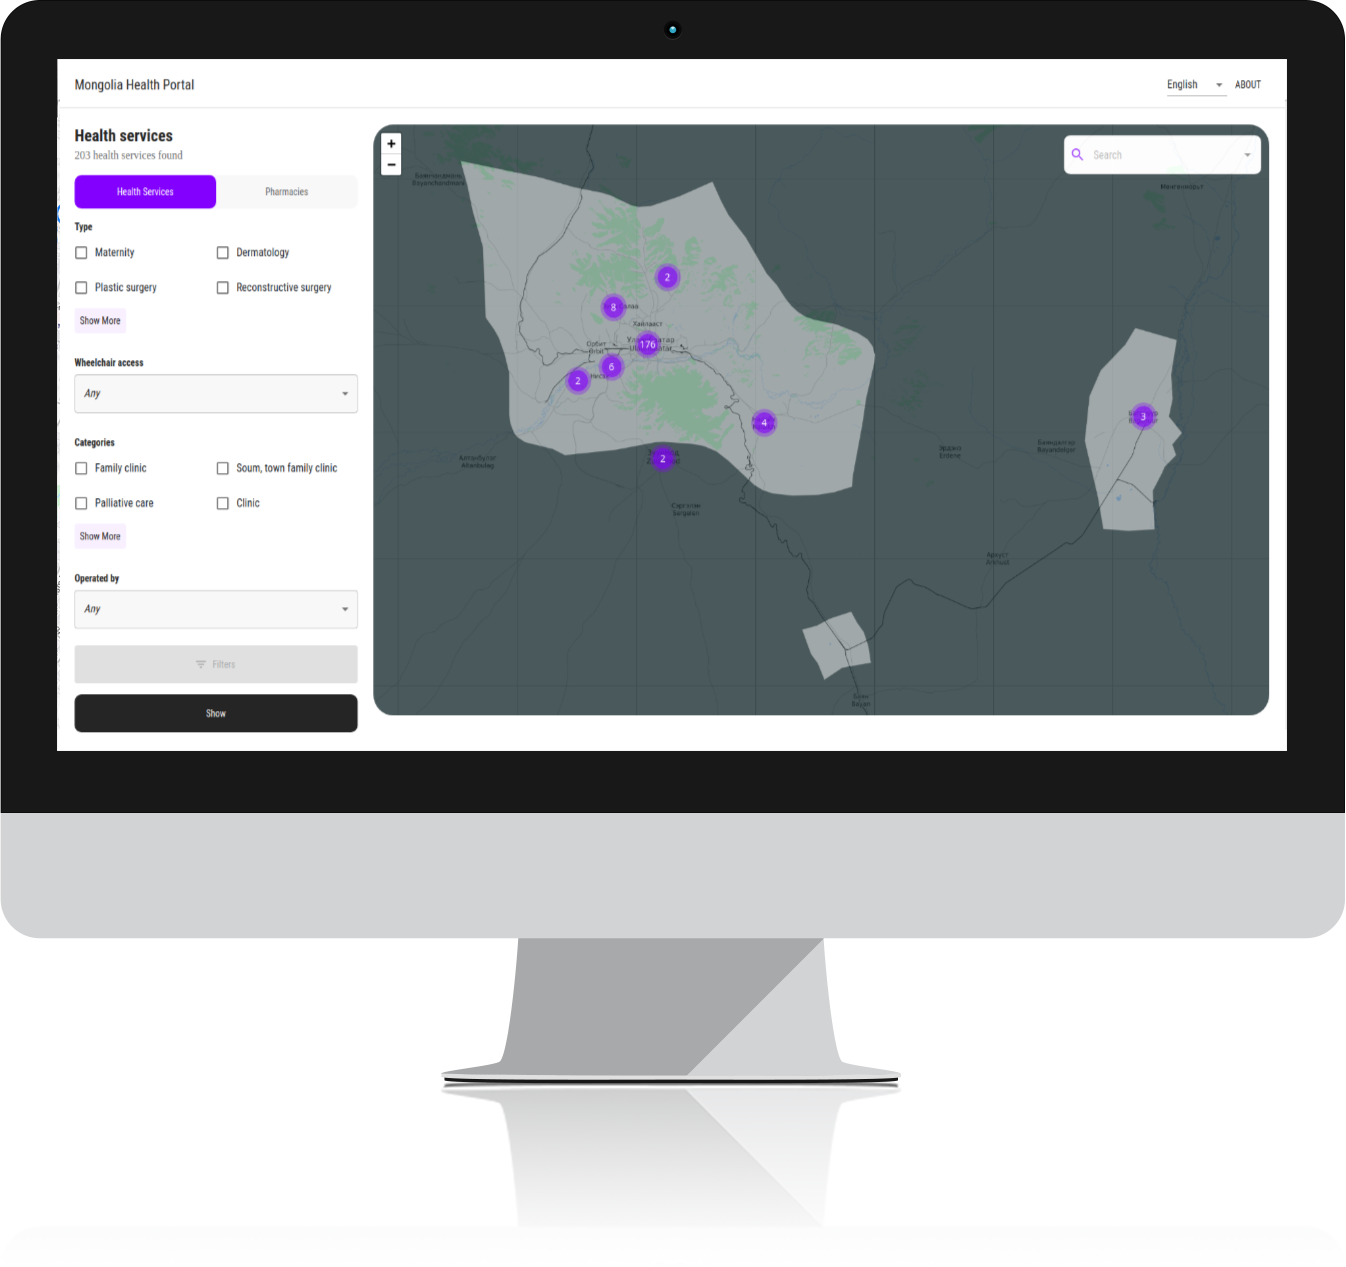
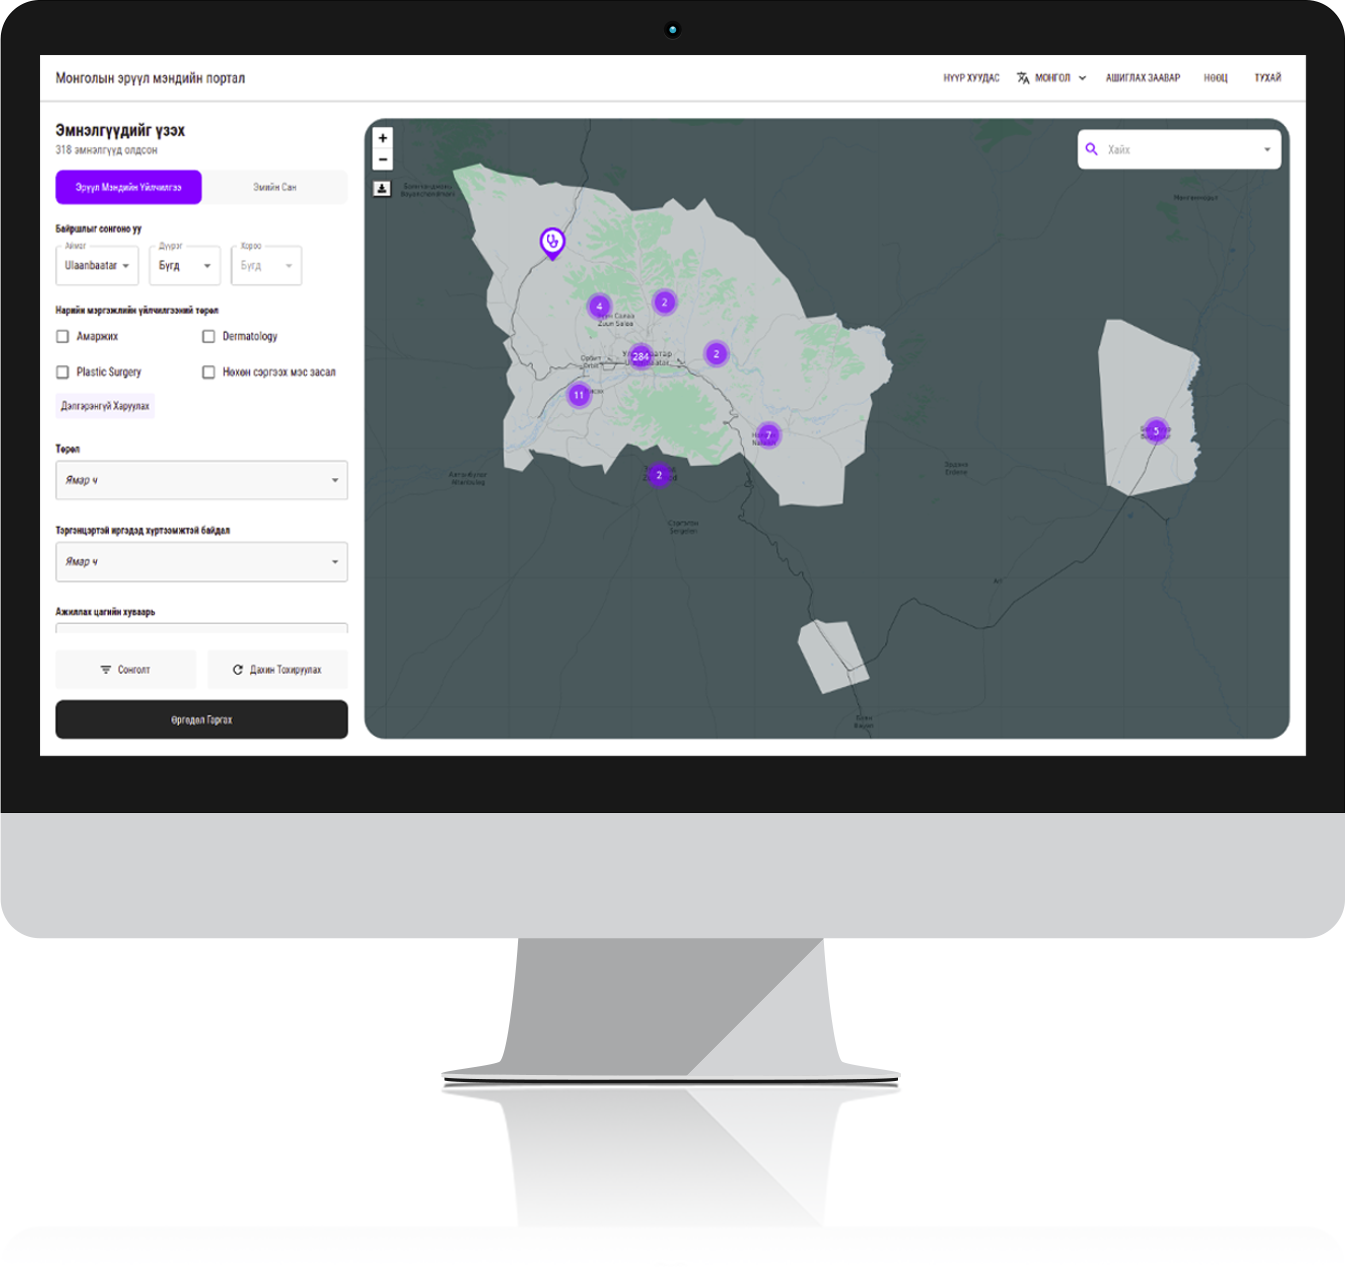
updated readme and how to mongolian locale

Changed region(s): [[0.0312, 0.0308, 0.9673, 0.6156], [0.7801, 0.2463, 0.9049, 0.4309], [0.1872, 0.1231, 0.2184, 0.1539]]

diff --git a/app/components/NavBar/index.js b/app/components/NavBar/index.js
@@ -18,44 +18,6 @@ import { FormattedMessage } from 'react-intl';
 import messages from './messages';
 import 'intro.js/introjs.css';
 
-const steps = [
-  {
-    element: '.selector1',
-    intro: <FormattedMessage {...messages.introFilter} />,
-    position: 'right',
-    tooltipClass: 'myTooltipClass',
-    highlightClass: 'myHighlightClass',
-  },
-  {
-    element: '.selector2',
-    intro: <FormattedMessage {...messages.introAmenity} />,
-  },
-  {
-    element: '.selector3',
-    intro: <FormattedMessage {...messages.introLocation} />,
-  },
-  {
-    element: '.selector4',
-    intro: <FormattedMessage {...messages.introOtherFilters} />,
-  },
-  {
-    element: '.selector5',
-    intro: <FormattedMessage {...messages.introShow} />,
-  },
-  {
-    element: '.selector6',
-    intro: <FormattedMessage {...messages.introMap} />,
-  },
-  {
-    element: '.selector7',
-    intro: <FormattedMessage {...messages.introSearch} />,
-  },
-  {
-    element: '.selector8',
-    intro: <FormattedMessage {...messages.introDownload} />,
-  },
-];
-
 const useStyles = makeStyles(theme => ({
   list: {
     width: 250,
@@ -83,6 +45,68 @@ export default function SwipeableTemporaryDrawer({ onLocaleToggle, locale }) {
   const [selectedIndex, setSelectedIndex] = React.useState('');
   const [isTourEnabled, setIsTourEnabled] = React.useState(false);
   const [anchorEl, setAnchorEl] = React.useState(null);
+
+  const steps = [
+    {
+      element: '.selector1',
+      intro:
+        locale === 'en'
+          ? 'This is the filter selection section.'
+          : 'Энэ хэсэгт сонголтоор хайлт хийнэ',
+      position: 'right',
+      tooltipClass: 'myTooltipClass',
+      highlightClass: 'myHighlightClass',
+    },
+    {
+      element: '.selector2',
+      intro:
+        locale === 'en'
+          ? 'You can select either health services or pharmacies.'
+          : 'Эрүүл мэндийн үйлчилгээ эсвэл эмийн сангаар хайж болно',
+    },
+    {
+      element: '.selector3',
+      intro:
+        locale === 'en'
+          ? 'Select the desired location.'
+          : 'Хайлт хийх газраа сонгоно',
+    },
+    {
+      element: '.selector4',
+      intro:
+        locale === 'en'
+          ? 'Select filters related to speciality, wheelchair access, categories, operator type or operating hours. Scroll down to see others filters.'
+          : 'Нарийн мэргэжил, тэргэнцэртэй иргэдэд хүртээмжтэй эсэх, үйлчилгээний төрөл, ажиллах цагаар хайх. Доош гүйлгэж бусад сонголтыг харах',
+    },
+    {
+      element: '.selector5',
+      intro:
+        locale === 'en'
+          ? "Once you've selected the filters, click here to apply the filters you've selected"
+          : 'Шүүлтүүрийг сонгосны дараа энд дарж сонгосон шүүлтүүрээ ашиглана уу',
+    },
+    {
+      element: '.selector6',
+      intro:
+        locale === 'en'
+          ? 'The map shows all the POIs that fall under the applied filters. Click on any location marker to view its detail.'
+          : 'Энэ хэсэгт хайлтын сонголтод тохирсон эрүүл мэндийн үйлчилгээнүүд харагдана. Үйлчилгээн дээр дарж дэлгэрэнгүй мэдээллийг харах.',
+    },
+    {
+      element: '.selector7',
+      intro:
+        locale === 'en'
+          ? 'Type your query here to search for keywords.'
+          : 'Энэ хэсэгт түлхүүр үгээр хайлт хийнэ',
+    },
+    {
+      element: '.selector8',
+      intro:
+        locale === 'en'
+          ? 'Download the data displayed in the map by clicking this download button.'
+          : 'Хайлтаар гарч ирсэн мэдээллийг энэ товчин дээр дарж татаж авна',
+    },
+  ];
 
   const handleLanguageClick = event => {
     setAnchorEl(event.currentTarget);
@@ -217,10 +241,10 @@ export default function SwipeableTemporaryDrawer({ onLocaleToggle, locale }) {
               initialStep={0}
               onExit={() => setIsTourEnabled(false)}
               options={{
-                nextLabel: 'Next',
-                prevLabel: 'Prev',
-                skipLabel: 'Skip',
-                doneLabel: 'Done',
+                nextLabel: locale === 'en' ? 'Next' : 'Дараачийн',
+                prevLabel: locale === 'en' ? 'Previous' : 'Өмнөх',
+                skipLabel: locale === 'en' ? 'Skip' : 'Алгасах',
+                doneLabel: locale === 'en' ? 'Done' : 'Дууссан',
                 scrollToElement: false,
                 showStepNumbers: false,
               }}

diff --git a/README.md b/README.md
@@ -38,6 +38,8 @@ This project is a part of the C2M2 project and following are its partners.
 
 <a href="https://www.publiclabmongolia.org/" target="_blank"><img src="https://www.publiclabmongolia.org/wp-content/uploads/2019/11/cropped-logo-design-public-1-100x103.png" height="80" width="80"></a>
 <a href="http://www.kathmandulivinglabs.org/" target="_blank"><img src="https://avatars.githubusercontent.com/u/5390948?s=280&v=4" height="80" width="80"></a>
+<a href="https://www.state.gov/" target="_blank"><img src="https://upload.wikimedia.org/wikipedia/commons/thumb/7/7b/Seal_of_the_United_States_Department_of_State.svg/1024px-Seal_of_the_United_States_Department_of_State.svg.png" height="80" width="80"></a>
+<a href="https://www.colostate.edu/" target="_blank"><img src="https://upload.wikimedia.org/wikipedia/en/thumb/1/14/Colorado_State_Rams_logo.svg/1200px-Colorado_State_Rams_logo.svg.png" height="80" width="80"></a>
 
 ## License
 
